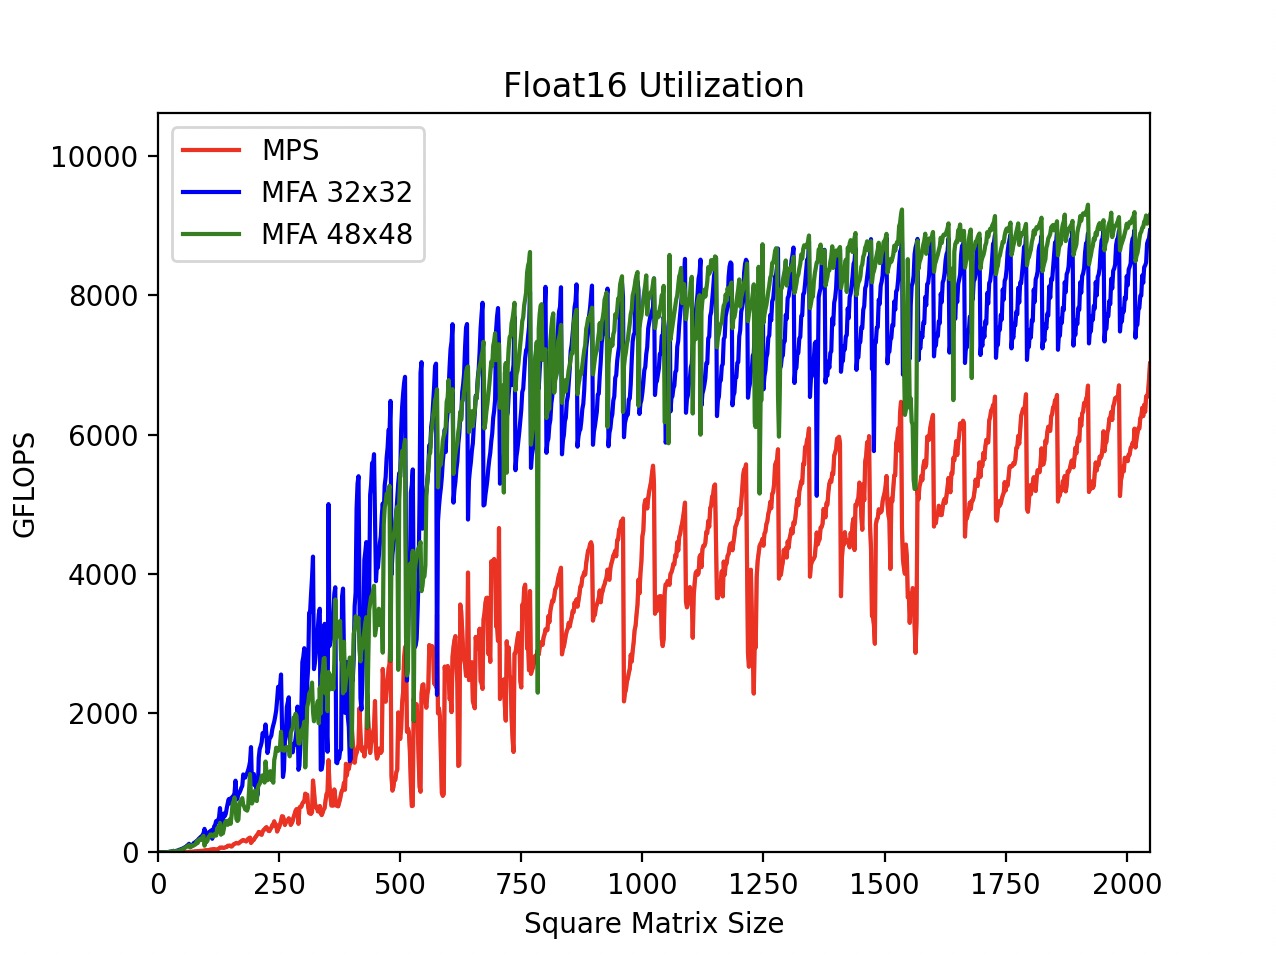
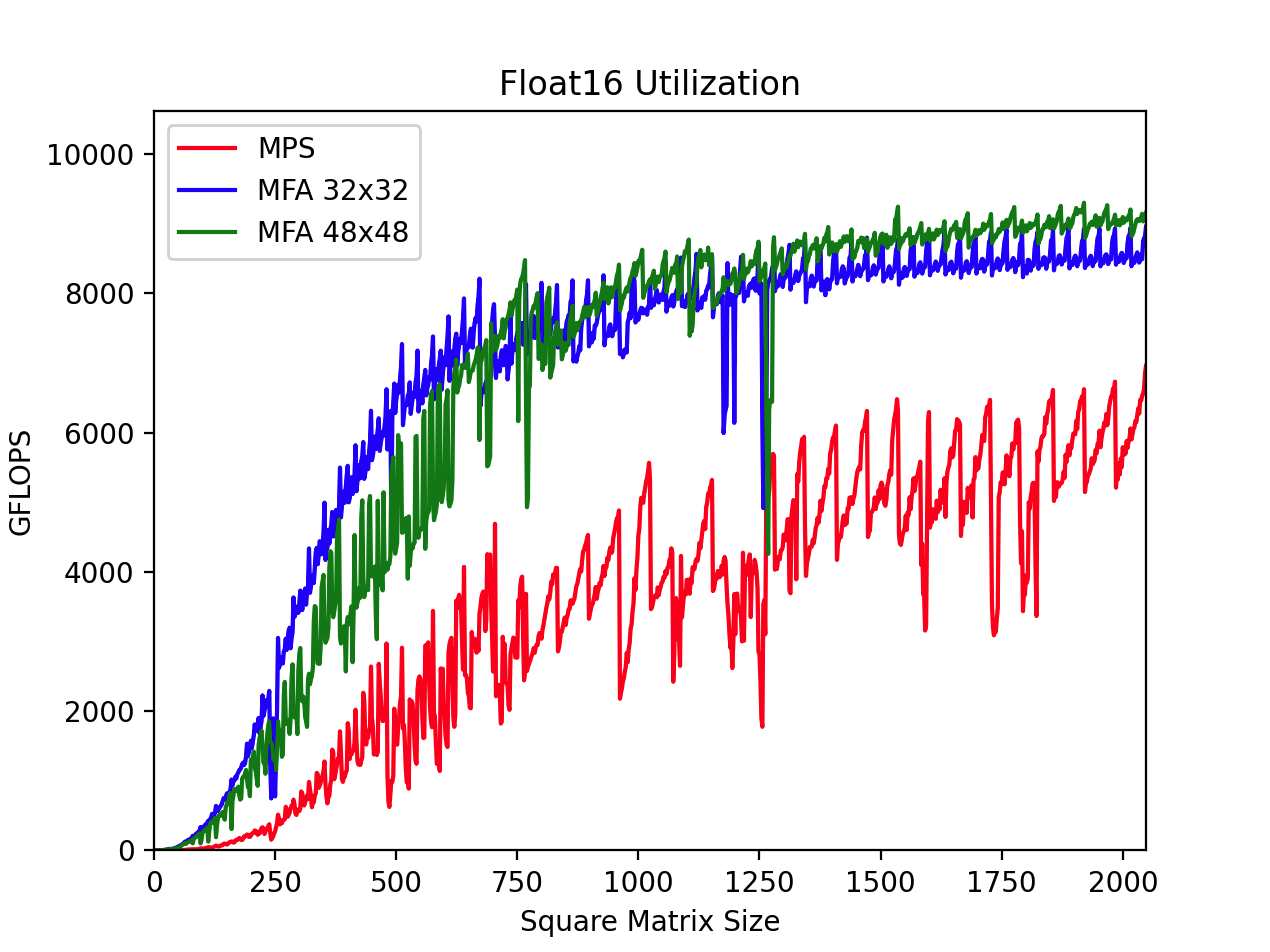
Fix the regression

diff --git a/Tests/Test Cases/PerformanceTests.swift b/Tests/Test Cases/PerformanceTests.swift
@@ -16,13 +16,14 @@ class PerformanceTests: MFATestCase {
   override func runVeryLongTests() {
     // Tests the precision you set as the global testing precision. For a quick
     // smoke test, you can set a larger granularity.
-    testGEMMSpeed(granularity: 2, logProgress: true)
+    testGEMMSpeed(granularity: 2, trialsExtension: 2)
   }
   
   // Covers the entire range of square matrix sizes, as well as differences
   // between MFA 32x32, MFA 48x48, and MPS.
-  func testGEMMSpeed(granularity: Int, logProgress: Bool) {
+  func testGEMMSpeed(granularity: Int, trialsExtension: Int) {
     precondition(granularity.nonzeroBitCount == 1)
+    let logProgress = true
     
     enum Config: CaseIterable {
       // Ordered from fastest to slowest at large matrix sizes.
@@ -100,7 +101,7 @@ class PerformanceTests: MFATestCase {
       }
       
       // If initial, this will run a ghost pass.
-      mutating func _profile(sizes: Range<Int>, granularity: Int, isInitial: Bool) {
+      mutating func _profile(sizes: Range<Int>, granularity: Int, trialsExtension: Int, isInitial: Bool) {
         func innerLoop(size: Int, reportResults: Bool) {
           if size % granularity != 0 {
             if !isInitial && reportResults {
@@ -119,6 +120,8 @@ class PerformanceTests: MFATestCase {
             if currentConfig == .mps {
               // Too little sequential throughput.
               iterations = min(32, iterations)
+            } else {
+              trials *= trialsExtension
             }
           }
           
@@ -188,7 +191,7 @@ class PerformanceTests: MFATestCase {
         }
       }
       
-      mutating func profile(granularity: Int, logProgress: Bool) {
+      mutating func profile(granularity: Int, trialsExtension: Int, logProgress: Bool) {
         let reportGranularity = 16
         var start = self.sizes.lowerBound
         while start < self.sizes.upperBound {
@@ -202,8 +205,8 @@ class PerformanceTests: MFATestCase {
           let sectionSizes = start..<end
           for config in Config.fastConfigs {
             prepare(config: config)
-            _profile(sizes: sectionSizes, granularity: granularity, isInitial: true)
-            _profile(sizes: sectionSizes, granularity: granularity, isInitial: false)
+            _profile(sizes: sectionSizes, granularity: granularity, trialsExtension: trialsExtension, isInitial: true)
+            _profile(sizes: sectionSizes, granularity: granularity, trialsExtension: trialsExtension, isInitial: false)
             cleanup(config: config)
           }
           
@@ -254,7 +257,7 @@ class PerformanceTests: MFATestCase {
       segments.append(Segment(sizes: 1536..<2049, iterations: 2))
     }
     for i in 0..<segments.count {
-      segments[i].profile(granularity: granularity, logProgress: logProgress)
+      segments[i].profile(granularity: granularity, trialsExtension: trialsExtension, logProgress: logProgress)
     }
     
     func extract(config: Config) -> (size: [Int], gflops: [Double]) {

diff --git a/Tests/Test Cases/MFATestCase.swift b/Tests/Test Cases/MFATestCase.swift
@@ -10,7 +10,7 @@ import Foundation
 class MFATestCase {
   // Global setting for the precision used in tests.
   #if arch(arm64)
-  typealias Real = Float32
+  typealias Real = Float16
   #else
   typealias Real = Float
   #endif

diff --git a/Tests/main.swift b/Tests/main.swift
@@ -13,7 +13,7 @@ import PythonKit
 _ = MetalContext.global
 _ = PythonContext.global
 
-MFATestCase.runTests(speed: .quick)
+MFATestCase.runTests(speed: .veryLong)
 
 // Currently, the tests only cover:
 // M = 1 - 1536/2048

diff --git a/README.md b/README.md
@@ -84,13 +84,13 @@ Setup:
 
 | Size Start | Size End | Duplicate Commands/Encoder | Trials |
 | ---------- | -------- | ---------- | ------ |
-| 1 | 191 | 256 | 8 |
-| 192 | 255 | 128 | 8 |
-| 256 | 383 | 64 | 8 |
-| 384 | 511 | 32 | 8 |
-| 512 | 767 | 16 | 8 |
-| 768 | 1023 | 8 | 8 |
-| 1024 | 1536 | 4 | 8 |
+| 1 | 190 | 256 | 16 |
+| 192 | 254 | 128 | 16 |
+| 256 | 382 | 64 | 16 |
+| 384 | 510 | 32 | 16 |
+| 512 | 766 | 16 | 16 |
+| 768 | 1022 | 8 | 16 |
+| 1024 | 1536 | 4 | 16 |
  
 ![Float32 Utilization](./CI/float32-latest.png)
 
@@ -98,17 +98,13 @@ Setup:
 
 | Size Start | Size End | Duplicate Commands/Encoder | Trials |
 | ---------- | -------- | ---------- | ------ |
-| 1 | 191 | 256 | 8 |
-| 192 | 255 | 128 | 8 |
-| 256 | 383 | 64 | 8 |
-| 384 | 511 | 32 | 8 |
-| 512 | 767 | 16 | 8 |
-| 768 | 1023 | 8 | 8 |
-| 1024 | 1535 | 4 | 8 |
-| 1536 | 2048 | 2 | 8 |
+| 1 | 190 | 256 | 16 |
+| 192 | 254 | 128 | 16 |
+| 256 | 382 | 64 | 16 |
+| 384 | 510 | 32 | 16 |
+| 512 | 766 | 16 | 16 |
+| 768 | 1022 | 8 | 16 |
+| 1024 | 1534 | 4 | 16 |
+| 1536 | 2048 | 2 | 16 |
 
 ![Float16 Utilization](./CI/float16-latest.png)
-
-### Regressions
-
-There are likely either random register spills or unneeded zero-initialization during the SIMD async copy instructions. MPS is noticeably slower than in previous tests, likely due to a sequential throughput bottleneck. 48x48 has consistently faster performance than 32x32, but is randomly drastically slower.